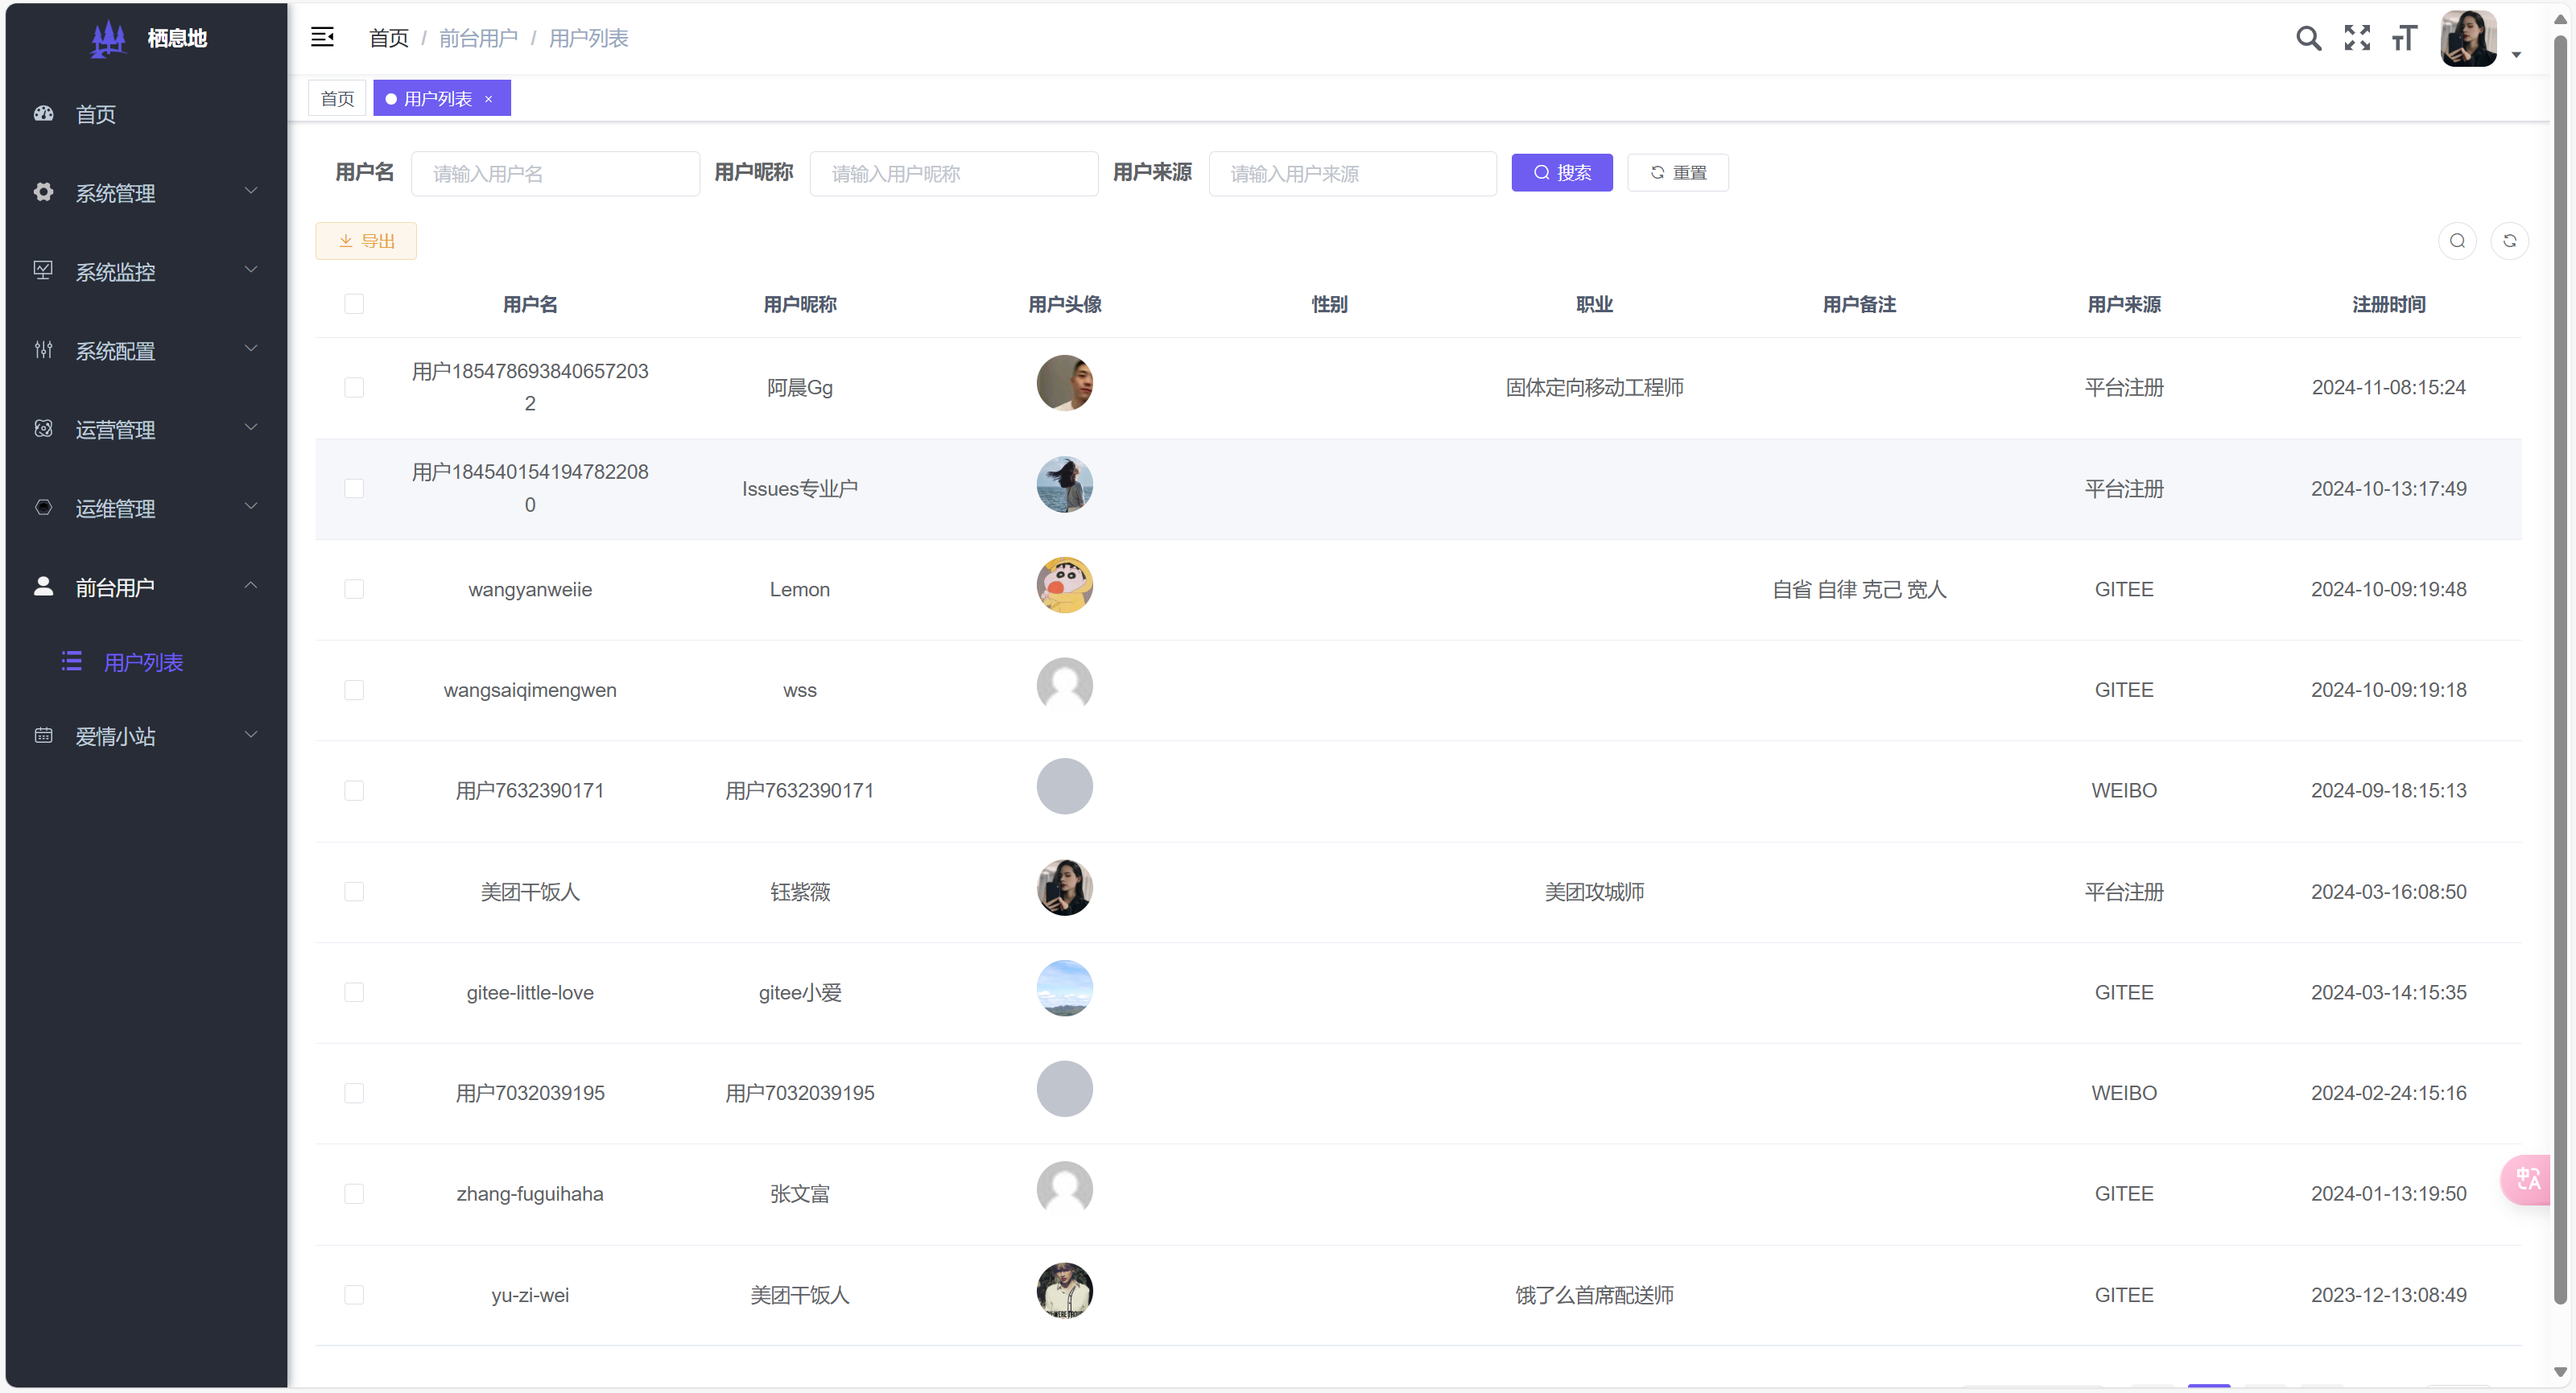
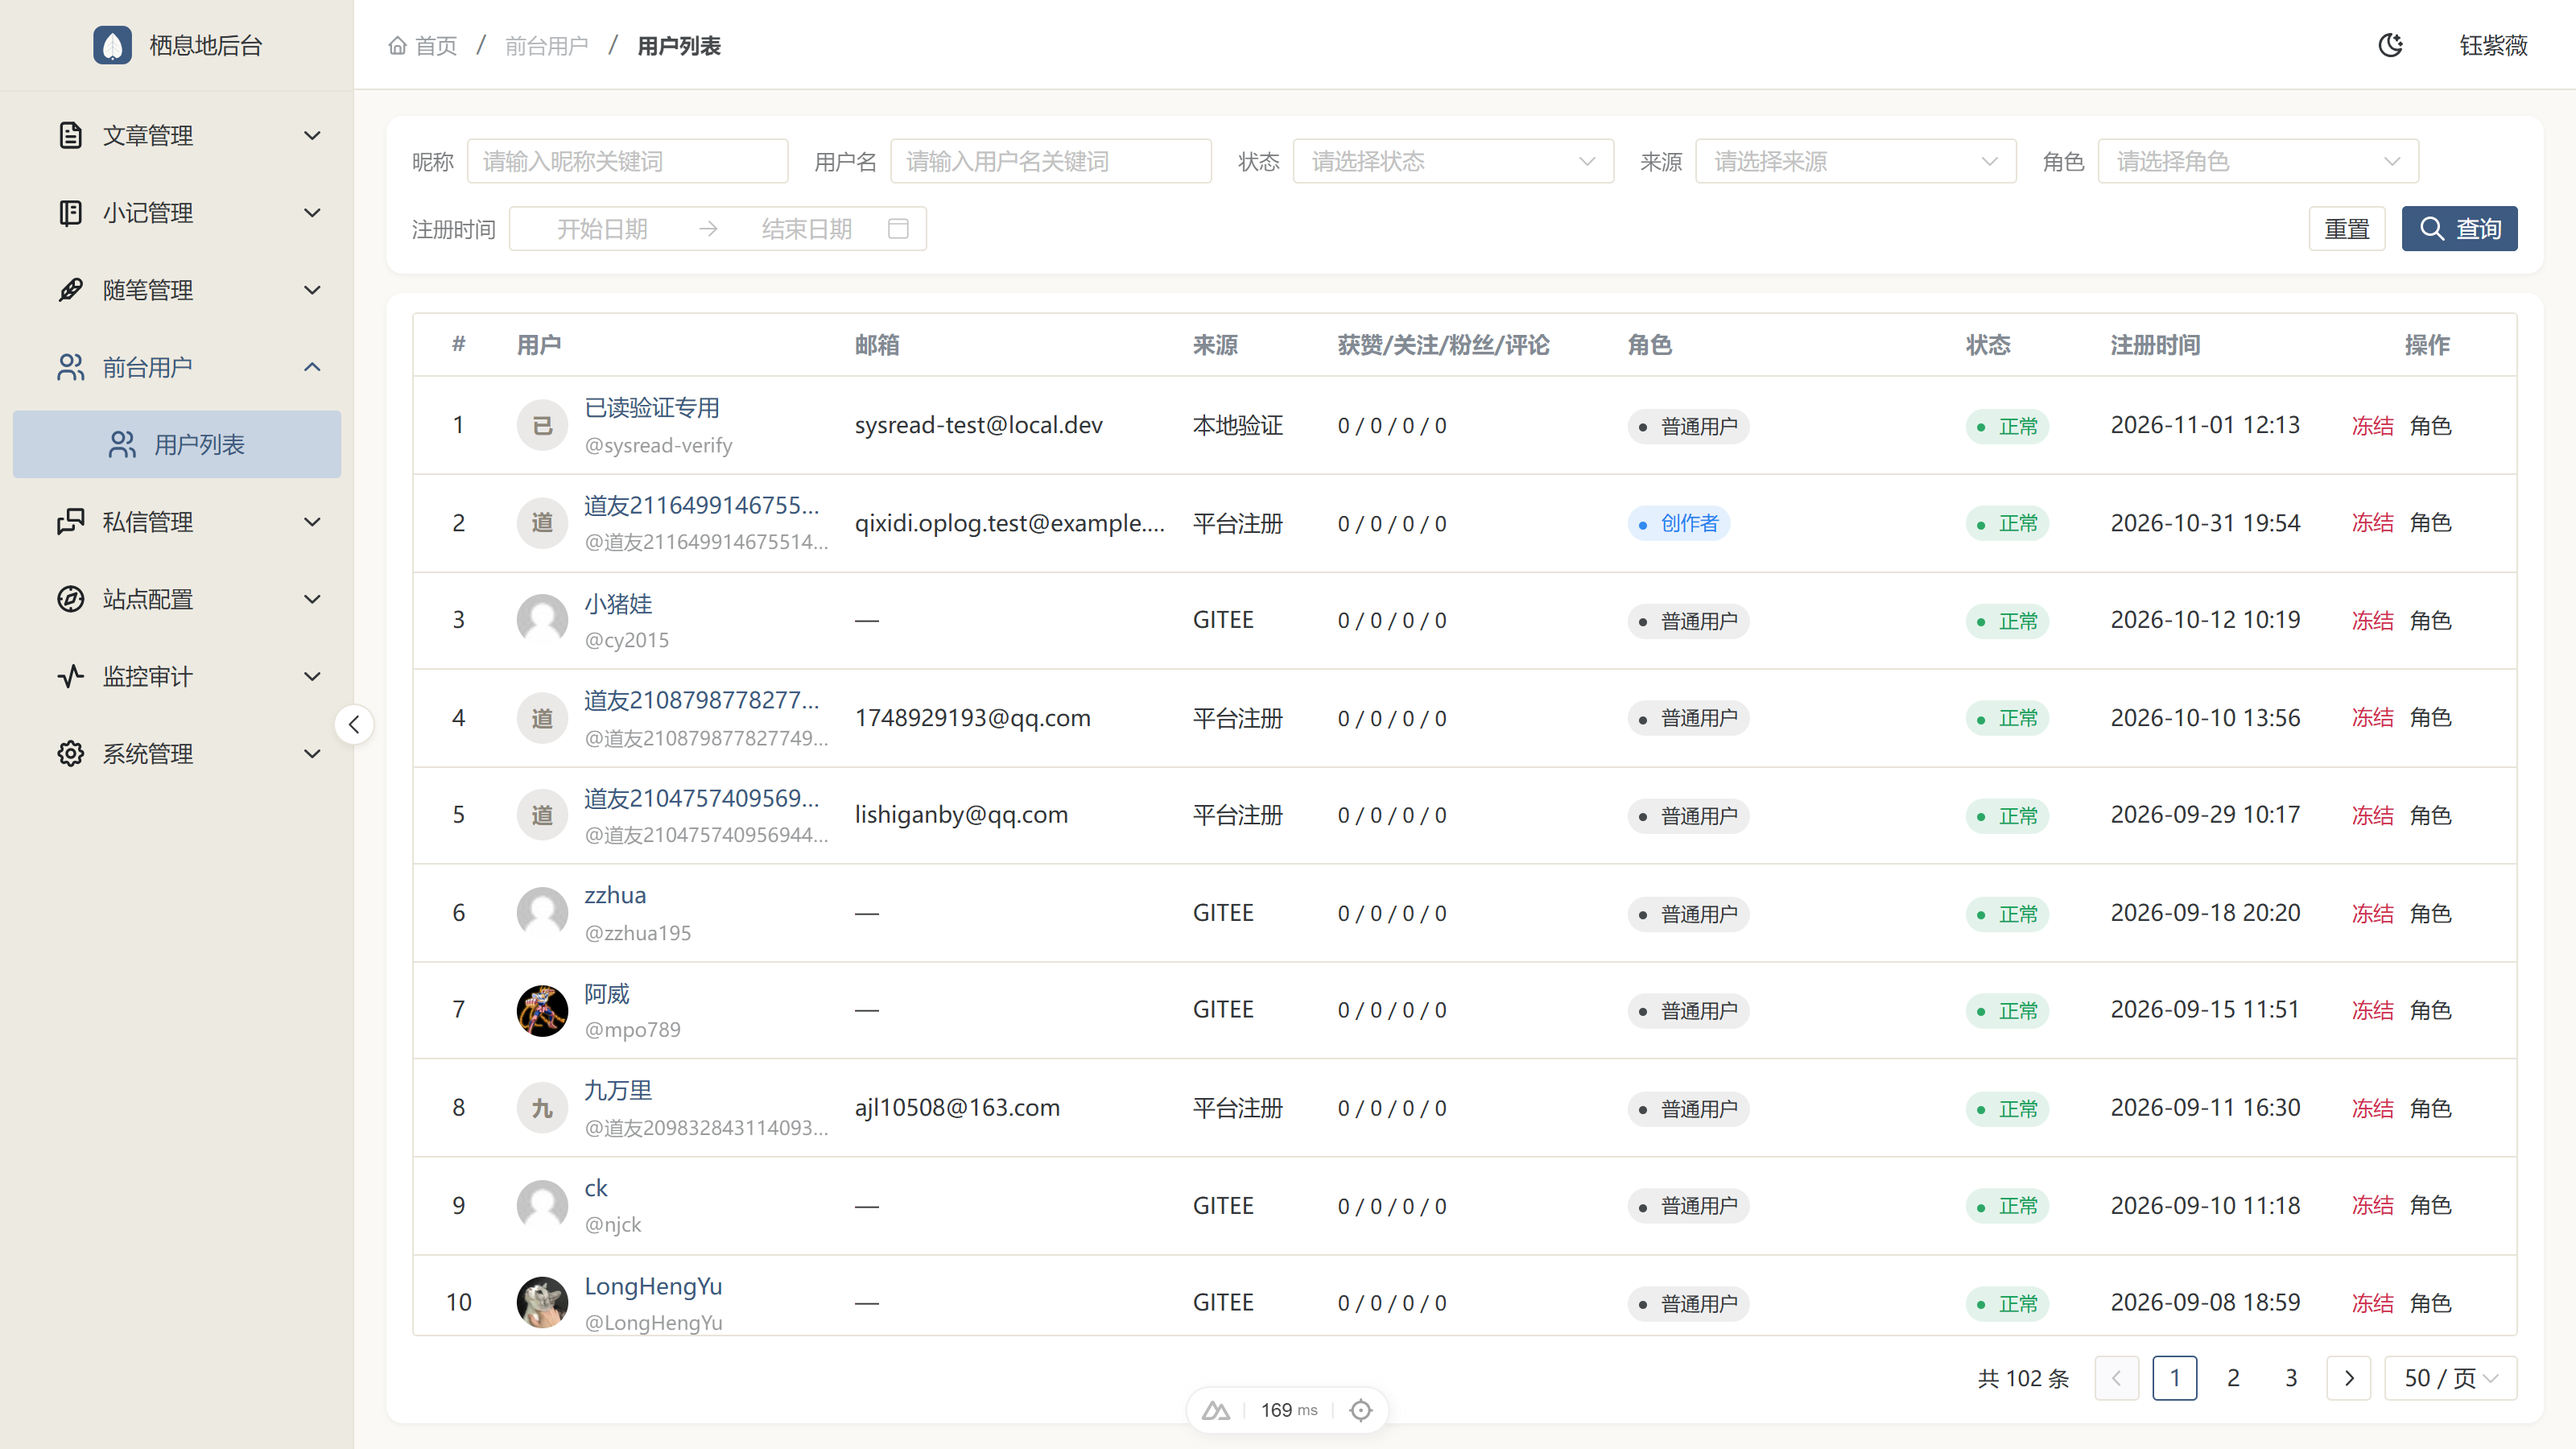
docs: 去掉「管理后台 2.0」版本称呼（全新版本不加号）+ README 后台预览换新后台 6 张截图

diff --git a/README.md b/README.md
@@ -177,28 +177,28 @@ qixidi/
 
 <table>
 <tr>
-<td><img src="img/后台/后台首页.png" alt="后台首页" /></td>
+<td><img src="img/后台/数据看板.png" alt="数据看板" /></td>
+<td><img src="img/后台/文章列表.png" alt="文章列表" /></td>
+</tr>
+<tr>
+<td align="center">数据看板</td>
+<td align="center">文章管理</td>
+</tr>
+<tr>
+<td><img src="img/后台/文章审核.png" alt="文章审核" /></td>
 <td><img src="img/后台/用户管理.png" alt="用户管理" /></td>
 </tr>
 <tr>
-<td align="center">后台首页</td>
+<td align="center">文章审核（详情抽屉）</td>
 <td align="center">用户管理</td>
 </tr>
 <tr>
-<td><img src="img/后台/文章列为.png" alt="文章管理" /></td>
-<td><img src="img/后台/系统任务.png" alt="系统任务" /></td>
+<td><img src="img/后台/随笔管理.png" alt="随笔管理" /></td>
+<td><img src="img/后台/深色模式.png" alt="深色模式" /></td>
 </tr>
 <tr>
-<td align="center">文章管理</td>
-<td align="center">系统任务</td>
-</tr>
-<tr>
-<td><img src="img/后台/导航配置.png" alt="导航配置" /></td>
-<td></td>
-</tr>
-<tr>
-<td align="center">导航配置</td>
-<td></td>
+<td align="center">随笔管理</td>
+<td align="center">深色模式</td>
 </tr>
 </table>
 

diff --git a/CLAUDE.md b/CLAUDE.md
@@ -41,7 +41,7 @@ qixidi（栖息地博客）项目的 AI 开发导航入口。
 |------|------|--------|------|
 | **qixidi-service** | 服务端 API | Spring Boot 4.0 + Java 17 | 活跃开发 |
 | **qixidi-web-nuxt3** | 门户网站 + 用户后台（SSR） | Nuxt 3 + Vue 3 + Naive UI | 活跃开发 |
-| **qixidi-web-admin** | 管理后台 2.0（八大功能域主体已就绪，需求见其 docs/开发需求与设计.md） | Nuxt 3 + TS + Naive UI（全 CSR） | 活跃开发 |
+| **qixidi-web-admin** | 管理后台（八大功能域主体已就绪，需求见其 docs/开发需求与设计.md） | Nuxt 3 + TS + Naive UI（全 CSR） | 活跃开发 |
 
 ### 业务功能
 
@@ -205,7 +205,7 @@ qixidi（栖息地博客）项目的 AI 开发导航入口。
 | 规则文件 | 职责 |
 |---------|------|
 | `rules/frontend/qixidi-web-nuxt3.md` | 门户 Nuxt 3 开发规范（SSR） |
-| `rules/frontend/qixidi-web-admin.md` | 管理后台 2.0 规范（全 CSR、表格列 render 样式、页面骨架） |
+| `rules/frontend/qixidi-web-admin.md` | 管理后台规范（全 CSR、表格列 render 样式、页面骨架） |
 | `rules/frontend/global-component-management.md` | 全局组件状态管理 |
 
 ### 后端规则（Spring Boot）

diff --git a/qixidi-web-admin/README.md b/qixidi-web-admin/README.md
@@ -1,6 +1,6 @@
 # qixidi-web-admin
 
-栖息地博客的**管理后台 2.0**，基于 Nuxt 3 重写（旧版 Vue 2 + Element UI 后台已下线删除，git 历史可溯）。
+栖息地博客的**管理后台**，基于 Nuxt 3 重写（旧版 Vue 2 + Element UI 后台已下线删除，git 历史可溯）。
 
 ## 技术栈
 
@@ -95,6 +95,6 @@ server {
 
 **需求与设计（唯一需求源）**：[docs/开发需求与设计.md](./docs/开发需求与设计.md)
 
-- 当前状态：M0 骨架 + M1（登录对接 + 数据看板）已完成，M2 三个管理页（文章/评论/用户）为下一步
-- 权限模型：登录即管理员（静态路由，无 RBAC），配套后端 sys 表瘦身方案见文档 §5
+- 当前状态：八大功能域主体已就绪（数据看板 + 文章/小记/随笔/用户/私信/站点配置/监控审计/系统管理）
+- 权限模型：RBAC——菜单归代码（useAdminMenu 单一数据源），权限码归后端（@SaCheckPermission + @PermName 扫描）
 - 开发每个页面前，先到 `qixidi-service` grep 对应 Controller 确认接口字段，禁止凭记忆扩写

diff --git a/.claude/rules/common/README.md b/.claude/rules/common/README.md
@@ -18,7 +18,7 @@
 | 规则 | 说明 |
 |------|------|
 | [qixidi-web-nuxt3.md](../frontend/qixidi-web-nuxt3.md) | Nuxt 3、SSR/CSR、主题切换、API 调用 |
-| [qixidi-web-admin.md](../frontend/qixidi-web-admin.md) | 管理后台 2.0（全 CSR、表格列 render 样式规则、页面骨架、组件库） |
+| [qixidi-web-admin.md](../frontend/qixidi-web-admin.md) | 管理后台（全 CSR、表格列 render 样式规则、页面骨架、组件库） |
 | [design-system.md](../frontend/design-system.md) | 设计系统、CSS 变量、样式开发规范 |
 | [nuxt3-data-fetching.md](../frontend/nuxt3-data-fetching.md) | useAsyncData、无限滚动、分页状态管理 |
 | [global-component-management.md](../frontend/global-component-management.md) | 全局组件状态管理（弹窗、对话框） |

diff --git a/.claude/rules/common/architecture.md b/.claude/rules/common/architecture.md
@@ -35,7 +35,7 @@
 | 应用 | 渲染 | 职责 |
 |------|------|------|
 | qixidi-web-nuxt3 | SSR 为主（交互页按需 CSR） | 门户 + 用户后台 |
-| qixidi-web-admin | 全 CSR（routeRules 关闭 SSR） | 管理后台 2.0（八大功能域，AdminListPage 骨架） |
+| qixidi-web-admin | 全 CSR（routeRules 关闭 SSR） | 管理后台（八大功能域，AdminListPage 骨架） |
 
 ### 门户目录结构
 

diff --git a/qixidi-web-admin/docs/开发需求与设计.md b/qixidi-web-admin/docs/开发需求与设计.md
@@ -1,6 +1,6 @@
 # qixidi-web-admin 开发需求与设计
 
-> 管理后台 2.0 · Nuxt 3 重写版。本文档是新后台唯一的需求源，旧后台（qixidi-web-admin-1.0）仅作交互参考，不再照搬其模块。
+> 管理后台 · Nuxt 3 重写版。本文档是后台唯一的需求源，旧后台（qixidi-web-admin-1.0）仅作交互参考，不再照搬其模块。
 
 ---
 

diff --git a/.claude/rules/frontend/qixidi-web-admin.md b/.claude/rules/frontend/qixidi-web-admin.md
@@ -1,6 +1,6 @@
 # qixidi-web-admin 开发规范
 
-管理后台 2.0（Nuxt 3 + TS + Naive UI，全 CSR）。需求源：`qixidi-web-admin/docs/开发需求与设计.md`。
+管理后台（Nuxt 3 + TS + Naive UI，全 CSR）。需求源：`qixidi-web-admin/docs/开发需求与设计.md`。
 
 ---
 
